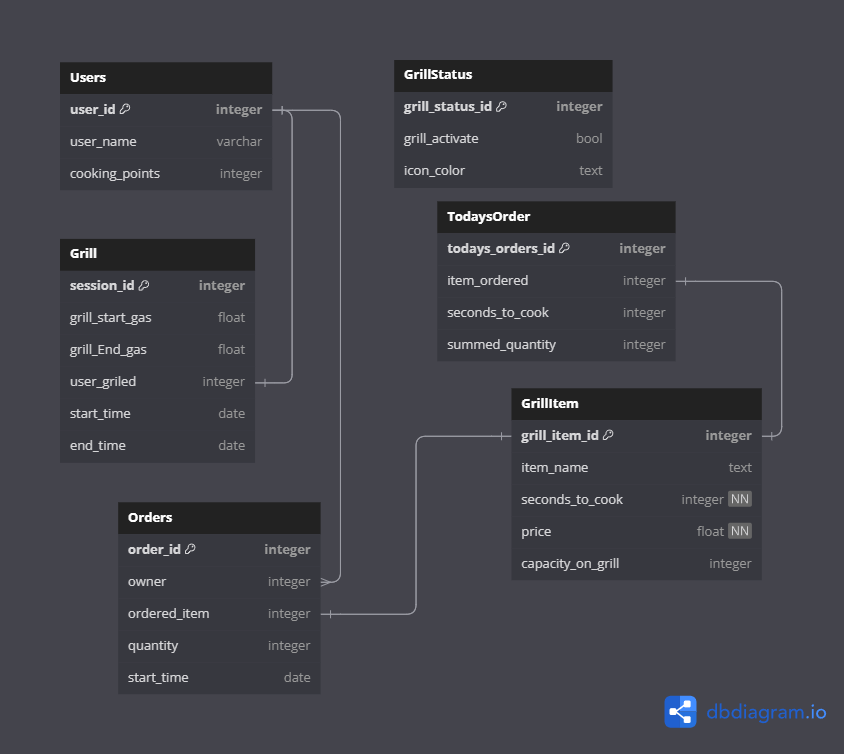
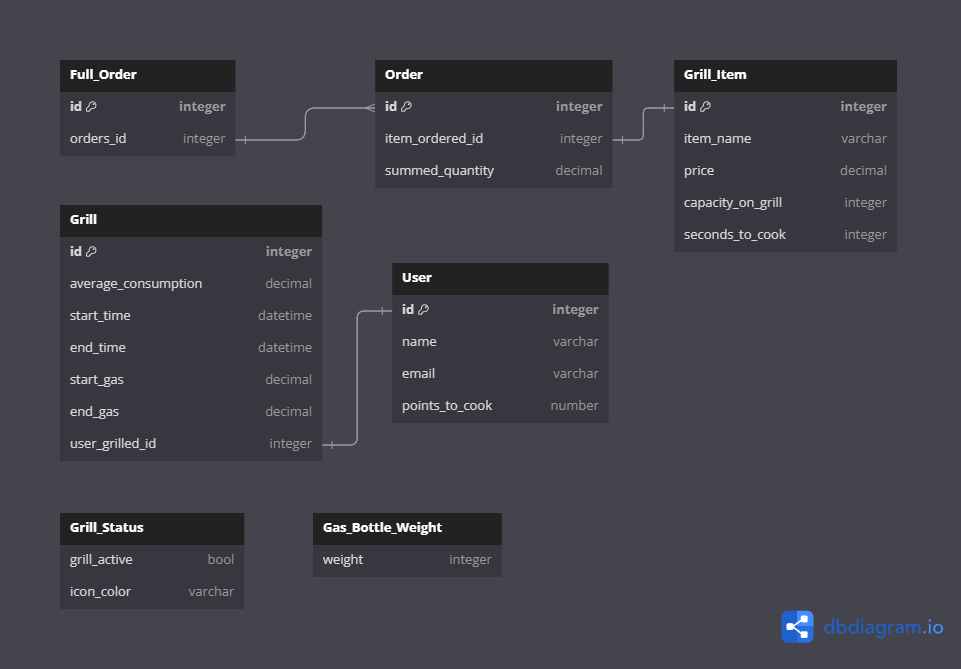
updating readme day 8

diff --git a/README.md b/README.md
@@ -148,15 +148,24 @@ This repository is for a project aimed at enhancing the management and tracking 
 
 ## Day 7
 ### To Do
-1. <del> To discuss further what are the plans for today <del>
-2. To continue the work on the frontend. 
+1. <del> To discuss further what are the plans for today. <del>
+2. <del> To continue the work on the frontend. <del> 
 3. <del> To test the esp32 with batteries <del>
-4. To find better batteries and to buy a voltage regulator.
+4. <del> To find better batteries and to buy a voltage regulator.<del> 
 
 ### What we did
 1. We had a daily meet on which discussed the plan for the day.
 2. We fixed some bugs on the frontend.
 3. We tested the batteries and unfortunately they are too old and don't function as intended.
+
+
+## Day 8
+### To Do
+1. <del>To discuss further what are the plans for today.<del>
+2. To continue the work on the frontend. 
+3. To find replacement of the batteries.
+4. To refactor the bot code because we changed the DB diagram. 
+5. <del> To update the diagram. <del>
 
 
 ## To be cheked
